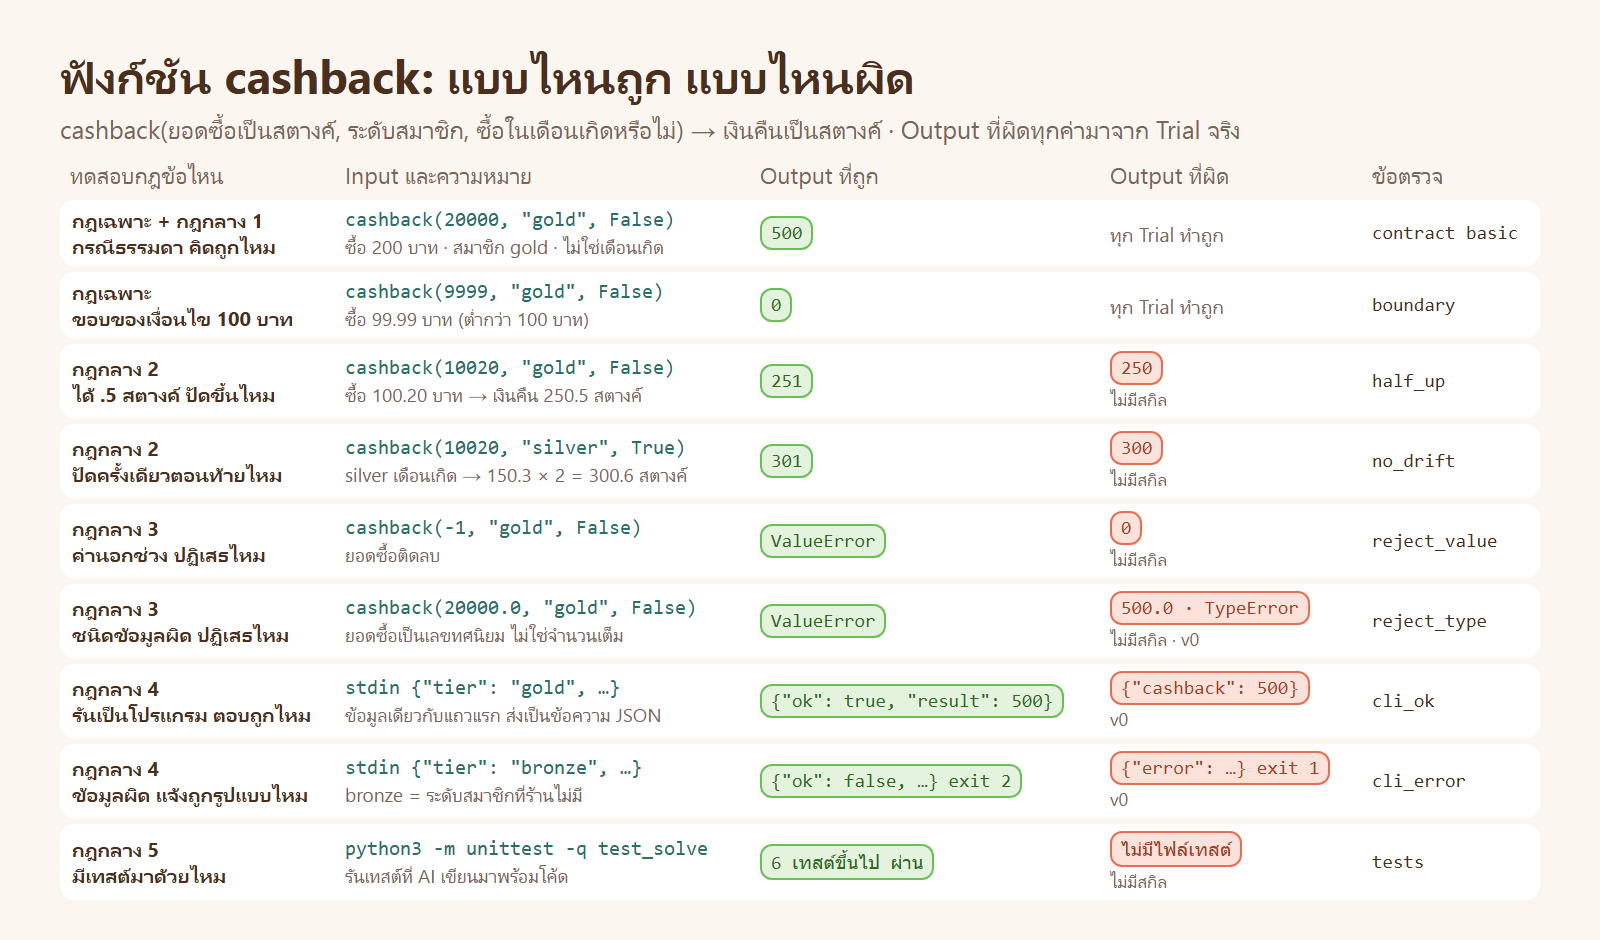
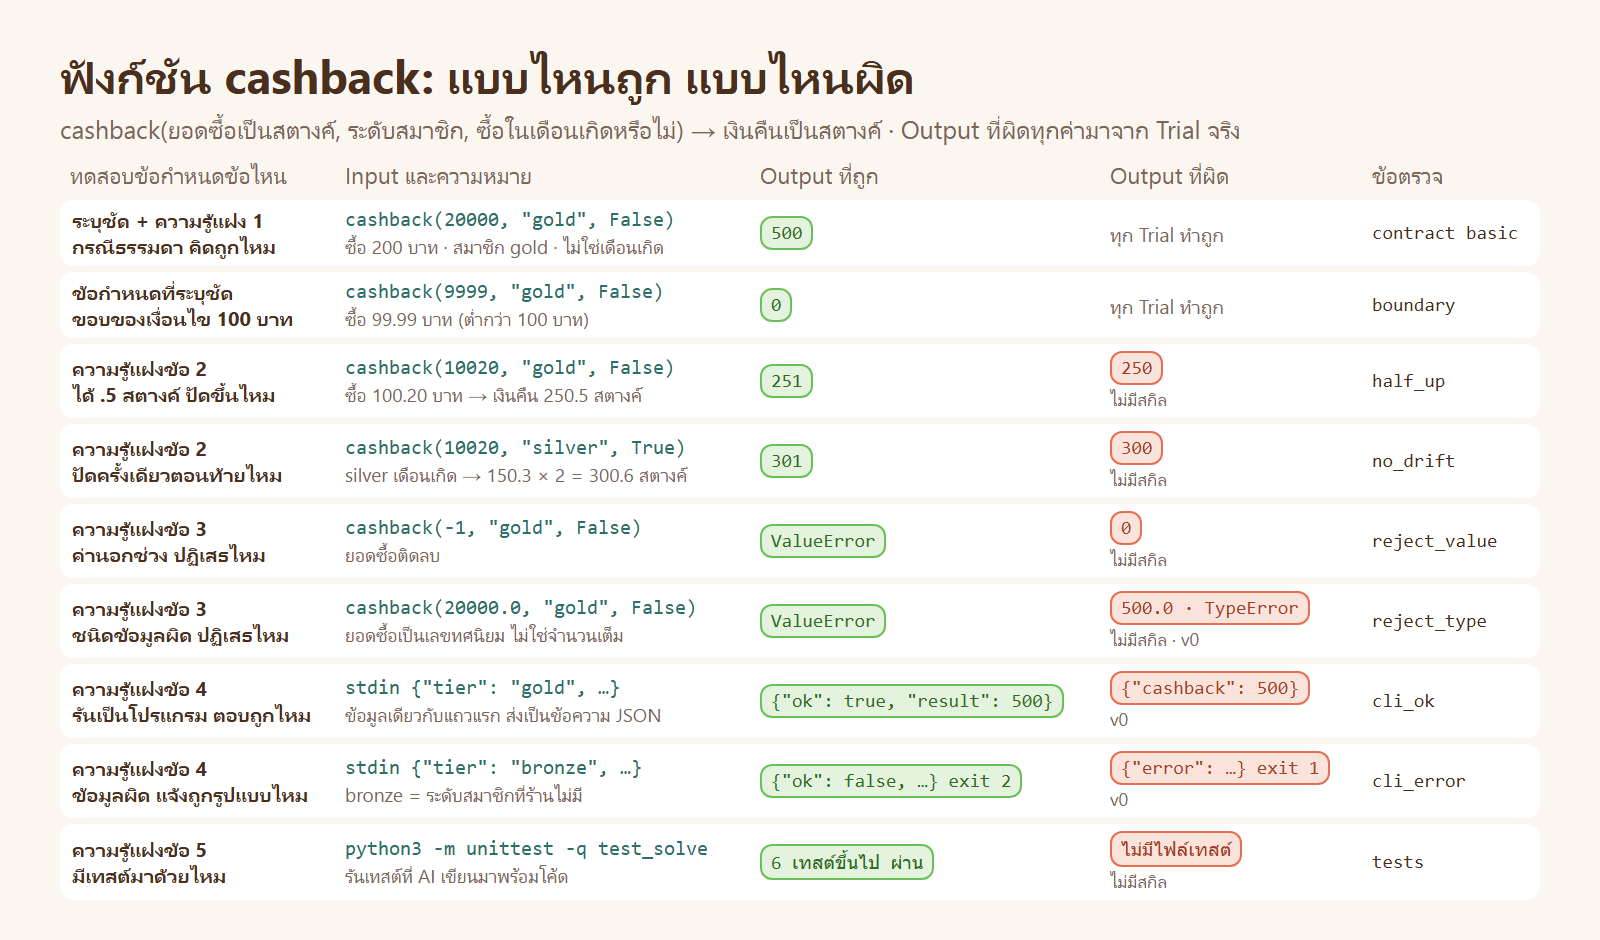
Skill Optimizer: rename rule layers to Explicit Requirement / Tacit Knowledge
Rewrite section 1.2 with a parameter table for all 6 tasks and the five
tacit-knowledge items, each with three correct/incorrect examples. Rename
the old rule terms across the README, shorten 1.8, and redraw d03, g18, g19.

diff --git a/03_week03/05_Skill_Optimizer/tools/diagrams.py b/03_week03/05_Skill_Optimizer/tools/diagrams.py
@@ -76,15 +76,15 @@ def grader():
 def examples():
     """ตัวอย่าง input -> output ที่ถูกและผิดของฟังก์ชัน cashback (ค่าที่ผิดมาจาก Trial จริงใน results/runs)"""
     rows = [  # (ทดสอบเพื่อดูอะไร, input, ความหมายของ input, ถูก, ผิด, ที่มาของค่าที่ผิด, ข้อตรวจ)
-        ("กฎเฉพาะ + กฎกลาง 1<br>กรณีธรรมดา คิดถูกไหม", "cashback(20000, \"gold\", False)", "ซื้อ 200 บาท · สมาชิก gold · ไม่ใช่เดือนเกิด", "500", "", "ทุก Trial ทำถูก", "contract basic"),
-        ("กฎเฉพาะ<br>ขอบของเงื่อนไข 100 บาท", "cashback(9999, \"gold\", False)", "ซื้อ 99.99 บาท (ต่ำกว่า 100 บาท)", "0", "", "ทุก Trial ทำถูก", "boundary"),
-        ("กฎกลาง 2<br>ได้ .5 สตางค์ ปัดขึ้นไหม", "cashback(10020, \"gold\", False)", "ซื้อ 100.20 บาท → เงินคืน 250.5 สตางค์", "251", "250", "ไม่มีสกิล", "half_up"),
-        ("กฎกลาง 2<br>ปัดครั้งเดียวตอนท้ายไหม", "cashback(10020, \"silver\", True)", "silver เดือนเกิด → 150.3 × 2 = 300.6 สตางค์", "301", "300", "ไม่มีสกิล", "no_drift"),
-        ("กฎกลาง 3<br>ค่านอกช่วง ปฏิเสธไหม", "cashback(-1, \"gold\", False)", "ยอดซื้อติดลบ", "ValueError", "0", "ไม่มีสกิล", "reject_value"),
-        ("กฎกลาง 3<br>ชนิดข้อมูลผิด ปฏิเสธไหม", "cashback(20000.0, \"gold\", False)", "ยอดซื้อเป็นเลขทศนิยม ไม่ใช่จำนวนเต็ม", "ValueError", "500.0 · TypeError", "ไม่มีสกิล · v0", "reject_type"),
-        ("กฎกลาง 4<br>รันเป็นโปรแกรม ตอบถูกไหม", "stdin {\"tier\": \"gold\", …}", "ข้อมูลเดียวกับแถวแรก ส่งเป็นข้อความ JSON", "{\"ok\": true, \"result\": 500}", "{\"cashback\": 500}", "v0", "cli_ok"),
-        ("กฎกลาง 4<br>ข้อมูลผิด แจ้งถูกรูปแบบไหม", "stdin {\"tier\": \"bronze\", …}", "bronze = ระดับสมาชิกที่ร้านไม่มี", "{\"ok\": false, …} exit 2", "{\"error\": …} exit 1", "v0", "cli_error"),
-        ("กฎกลาง 5<br>มีเทสต์มาด้วยไหม", "python3 -m unittest -q test_solve", "รันเทสต์ที่ AI เขียนมาพร้อมโค้ด", "6 เทสต์ขึ้นไป ผ่าน", "ไม่มีไฟล์เทสต์", "ไม่มีสกิล", "tests"),
+        ("ระบุชัด + ความรู้แฝง 1<br>กรณีธรรมดา คิดถูกไหม", "cashback(20000, \"gold\", False)", "ซื้อ 200 บาท · สมาชิก gold · ไม่ใช่เดือนเกิด", "500", "", "ทุก Trial ทำถูก", "contract basic"),
+        ("ข้อกำหนดที่ระบุชัด<br>ขอบของเงื่อนไข 100 บาท", "cashback(9999, \"gold\", False)", "ซื้อ 99.99 บาท (ต่ำกว่า 100 บาท)", "0", "", "ทุก Trial ทำถูก", "boundary"),
+        ("ความรู้แฝงข้อ 2<br>ได้ .5 สตางค์ ปัดขึ้นไหม", "cashback(10020, \"gold\", False)", "ซื้อ 100.20 บาท → เงินคืน 250.5 สตางค์", "251", "250", "ไม่มีสกิล", "half_up"),
+        ("ความรู้แฝงข้อ 2<br>ปัดครั้งเดียวตอนท้ายไหม", "cashback(10020, \"silver\", True)", "silver เดือนเกิด → 150.3 × 2 = 300.6 สตางค์", "301", "300", "ไม่มีสกิล", "no_drift"),
+        ("ความรู้แฝงข้อ 3<br>ค่านอกช่วง ปฏิเสธไหม", "cashback(-1, \"gold\", False)", "ยอดซื้อติดลบ", "ValueError", "0", "ไม่มีสกิล", "reject_value"),
+        ("ความรู้แฝงข้อ 3<br>ชนิดข้อมูลผิด ปฏิเสธไหม", "cashback(20000.0, \"gold\", False)", "ยอดซื้อเป็นเลขทศนิยม ไม่ใช่จำนวนเต็ม", "ValueError", "500.0 · TypeError", "ไม่มีสกิล · v0", "reject_type"),
+        ("ความรู้แฝงข้อ 4<br>รันเป็นโปรแกรม ตอบถูกไหม", "stdin {\"tier\": \"gold\", …}", "ข้อมูลเดียวกับแถวแรก ส่งเป็นข้อความ JSON", "{\"ok\": true, \"result\": 500}", "{\"cashback\": 500}", "v0", "cli_ok"),
+        ("ความรู้แฝงข้อ 4<br>ข้อมูลผิด แจ้งถูกรูปแบบไหม", "stdin {\"tier\": \"bronze\", …}", "bronze = ระดับสมาชิกที่ร้านไม่มี", "{\"ok\": false, …} exit 2", "{\"error\": …} exit 1", "v0", "cli_error"),
+        ("ความรู้แฝงข้อ 5<br>มีเทสต์มาด้วยไหม", "python3 -m unittest -q test_solve", "รันเทสต์ที่ AI เขียนมาพร้อมโค้ด", "6 เทสต์ขึ้นไป ผ่าน", "ไม่มีไฟล์เทสต์", "ไม่มีสกิล", "tests"),
     ]
     th = "font-size:23px;color:#7A6557;text-align:left;padding:0 10px 4px;font-weight:400"
     chip = "display:inline-block;border-radius:12px;padding:4px 9px;%s;font-size:19px;white-space:nowrap" % MONO
@@ -105,7 +105,7 @@ def examples():
     <div class='sub' style='margin-bottom:8px'>cashback(ยอดซื้อเป็นสตางค์, ระดับสมาชิก, ซื้อในเดือนเกิดหรือไม่) → เงินคืนเป็นสตางค์ · Output ที่ผิดทุกค่ามาจาก Trial จริง</div>
     <table style='border-collapse:separate;border-spacing:0 6px;width:100%%;table-layout:fixed'>
       <colgroup><col style='width:275px'><col style='width:415px'><col style='width:350px'><col style='width:262px'><col style='width:178px'></colgroup>
-      <tr><th style='%s'>ทดสอบกฎข้อไหน</th><th style='%s'>Input และความหมาย</th><th style='%s'>Output ที่ถูก</th><th style='%s'>Output ที่ผิด</th><th style='%s'>ข้อตรวจ</th></tr>%s</table>""" % (
+      <tr><th style='%s'>ทดสอบข้อกำหนดข้อไหน</th><th style='%s'>Input และความหมาย</th><th style='%s'>Output ที่ถูก</th><th style='%s'>Output ที่ผิด</th><th style='%s'>ข้อตรวจ</th></tr>%s</table>""" % (
         th, th, th, th, th, h)
     shot("d03-examples", body, 940)
 
